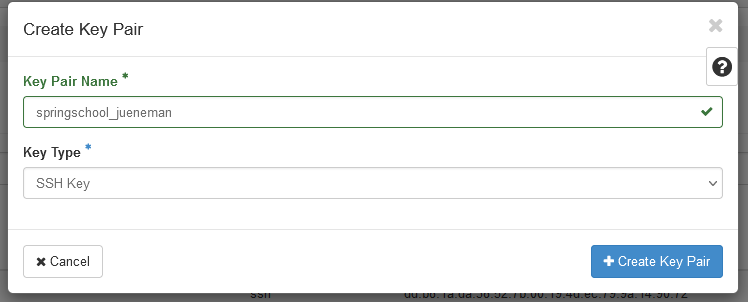
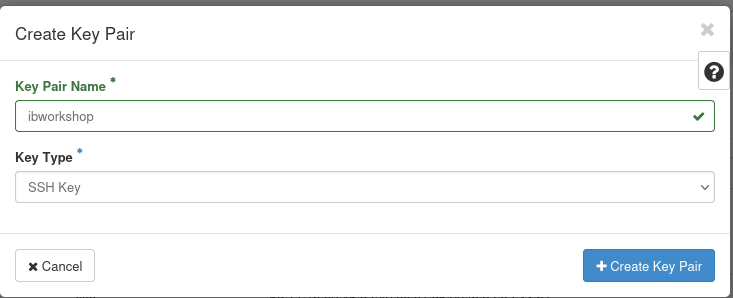
Merge pull request #35 from abshah/main
DM_in_the_deNBI_cloud: correctness fixes and screenshot refresh

Pull request: DM_in_the_deNBI_cloud: correctness fixes and screenshot refresh
- Fix broken numbered lists across sections 1.2, 1.6, 2.1, 3.2-3.4 by indenting interrupting images into their list items; renumber 3.2 starting at 1.
- Correct content errors: /mount/volume -> /mnt/volume typo, broken rsync remote-to-remote example, IP/port mismatch in 3.4, undefined sra/aws mc aliases now annotated as pre-configured.
- Update tool versions in 1.6 step 4 to match new screenshot (parallel 20260122, sra-tools 3.4.1, mash 2.3); add fasterq-dump -h to the 2.1 verification step.
- Replace conda.png, keypair2.png; add new additional_users.png with emails and last names redacted; clarify that ib2025openstack1 and ib2025workshop1 are distinct projects.
- Expand 4.3 bucket creation into explicit Horizon steps; replace expired October-2025 invitation note; clarify simplevm.denbi.de vs cloud.denbi.de portal relationship; replace placeholder key_points.
- Add .claude/ and .cursor/ to .gitignore.

**Pull Request Checklist**

Before submitting your pull request, please make sure you have done the following:

* [ ] Read our [Contributing Guidelines](CONTRIBUTING.md) (if applicable).

* [ ] Ensured your code adheres to our project's coding style (if applicable).

* [ ] Updated documentation for any new or changed features.


**Changes Proposed**

Please provide a concise description of the changes in this pull request.

**License Agreement**
[…]

Changed region(s): [[0.0, 0.0, 1.0, 1.0]]

diff --git a/_tutorials/DM_in_the_deNBI_cloud/main/tutorial.md b/_tutorials/DM_in_the_deNBI_cloud/main/tutorial.md
@@ -14,15 +14,19 @@ objectives:
   - Be able to use object storage on the de.NBI Cloud.
   - Be able to use advanced object storage operations and SSH-based transfers (parallel transfers, mirroring, resume interrupted transfers).
 key_points:
-  - Use the de.NBI Cloud for superior performance for all your research projects.
-  - Key points will appear at the end of the tutorial.
+  - SimpleVM provides a guided interface for launching VMs with pre-installed tool stacks via Conda; OpenStack Horizon exposes the underlying primitives for more control.
+  - Object storage (Swift/S3) is project-scoped, so containers are visible to all project members; use unique, DNS-compatible names.
+  - The MinIO client (`mc`) covers most day-to-day object-storage tasks, including bulk transfers, mirroring, and anonymous-access policies.
+  - For SSH-based transfers, prefer `rsync` for incremental sync and `parallel` with `scp` to saturate bandwidth on many small files.
 version: main
 life_cycle: alpha
 contributions:
   authorship:
     - Abhijeet Shah
-    - Sebastian Juenemann
-  editing: AS & SJ
+    - Sebastian Jünemann
+  editing:
+    - Abhijeet Shah
+    - Sebastian Jünemann
   funding: deKCD/BMBF
 ---
 
@@ -57,20 +61,22 @@ able to log in to the de.NBI Cloud Portal:
     de.NBI Cloud wiki regarding SSH keys:
     <https://cloud.denbi.de/wiki/portal/user_information/#ssh-key>
 
-![Key]({{ "/tutorials/DM_in_the_deNBI_cloud/main/tutorial/figures/key.png" | relative_url }}){: .responsive-img }
+    ![Key]({{ "/tutorials/DM_in_the_deNBI_cloud/main/tutorial/figures/key.png" | relative_url }}){: .responsive-img }
 
-3. (optional) If you already have a personal SSH key-pair, you can also
-   upload your *public* key here instead of generating one.
+3.  (optional) If you already have a personal SSH key-pair, you can
+    also upload your *public* key here instead of generating one.
 
 ## 1.3 Join the *ib2025workshop1* Project
 
 If you have not done yet, please click on the following link to request
 access to the project:
 
-[ib2025workshop
-invitation](https://simplevm.denbi.de/portal/webapp/#/workshops/invitation/faecbc35ec5648e890f6510f583e2b38)
+[ib2025workshop invitation](https://simplevm.denbi.de/portal/webapp/#/workshops/invitation/faecbc35ec5648e890f6510f583e2b38)
 
-The above invitation link will not work after October 2025.
+**Note:** Workshop invitation links are valid only for the duration of
+the running cohort and expire shortly after the workshop ends. If the
+link above is no longer active, ask the workshop organizers
+(Sebastian Jünemann, Abhijeet Shah) for the current invitation URL.
 
 If you have been invited to join a SimpleVM project on the de.NBI Cloud via a link, you may now click on the link and follow the instructions to join the project.
 
@@ -81,7 +87,9 @@ in your VM through conda environments:
 
 -   **mash**: A fast genome and metagenome distance estimation tool
 -   **parallel**: GNU parallel for running jobs in parallel
--   **fasterq-dump**: Part of the SRA Toolkit for converting SRA data
+-   **fasterq-dump**: A tool for converting SRA data, provided by the
+    **sra-tools** conda package (the package you select in Section 1.6
+    is `sra-tools`; the binary on `$PATH` is `fasterq-dump`)
 
 **Note**: These tools will be available after activating the conda environment
 with `conda activate denbi` (covered later in this workshop).
@@ -92,8 +100,11 @@ features but is not required for this workshop.
 
 ## 1.5 Select your project
 
-You start this tutorial from your profile page
-(<https://simplevm.denbi.de>).
+You start this tutorial from your SimpleVM profile page at
+<https://simplevm.denbi.de>. This is the dedicated SimpleVM portal; it
+is reachable from the main de.NBI Cloud portal
+(<https://cloud.denbi.de/portal/>) under the **SimpleVM** menu and uses
+the same login.
 
 1.  Click on the `New Instance` tab.
 
@@ -118,25 +129,30 @@ You start this tutorial from your profile page
 
 3.  In the image section, please click on the *Research Environments*
     tab and select the **Guacamole** image based on **Ubuntu 24.04**.
+
     ![Research Environment Selection]({{ "/tutorials/DM_in_the_deNBI_cloud/main/tutorial/figures/resenv.png" | relative_url }}){: .responsive-img }
 
 4.  Select the Conda tab and choose the following tools with their
     version numbers given below for installation via Conda:
 
-    -   parallel (20220922)
-    -   sra-tools (3.1.1)
-    -   mash (2.2)
-        ![Conda Tool Selection]({{ "/tutorials/DM_in_the_deNBI_cloud/main/tutorial/figures/conda.png" | relative_url }}){: .responsive-img }
+    -   parallel (20260122)
+    -   sra-tools (3.4.1)
+    -   mash (2.3)
+
+    ![Conda Tool Selection]({{ "/tutorials/DM_in_the_deNBI_cloud/main/tutorial/figures/conda.png" | relative_url }}){: .responsive-img }
 
     You will learn in the next sections how to apply these tools.
 
 5.  Grant access to the workshop organizers (**Sebastian Jünemann** and **Abhijeet Shah**), or your collaborators. This
     way these members get ssh access to your VM and can help you in case
     something does not work as expected.
+
     ![Additional Users]({{ "/tutorials/DM_in_the_deNBI_cloud/main/tutorial/figures/additional_users.png" | relative_url }}){: .responsive-img }
 
 6.  Optional: Modify the URL path for Guacamole. You will access this VM
-    via this URL. ![Research Environment URL]({{ "/tutorials/DM_in_the_deNBI_cloud/main/tutorial/figures/resenv_url.png" | relative_url }}){: .responsive-img }
+    via this URL.
+
+    ![Research Environment URL]({{ "/tutorials/DM_in_the_deNBI_cloud/main/tutorial/figures/resenv_url.png" | relative_url }}){: .responsive-img }
 
 7.  Confirm the checkboxes and click on Start.
 
@@ -162,14 +178,18 @@ Log in to the VM and verify that SimpleVM provisioned the VM correctly.
     have been automatically redirected to the **Instance Overview**
     page. Now click on the dropdown of your machine. Click on the
     Guacamole URL which opens a new browser tab.
+
     ![VM State]({{ "/tutorials/DM_in_the_deNBI_cloud/main/tutorial/figures/vm_state.png" | relative_url }}){: .responsive-img }
 
 2.  Log into the virtual desktop environment using the credentials:
-    `denbi` `denbi` ![VM Login]({{ "/tutorials/DM_in_the_deNBI_cloud/main/tutorial/figures/vm_login.png" | relative_url }}){: .responsive-img }
+    `denbi` `denbi`.
+
+    ![VM Login]({{ "/tutorials/DM_in_the_deNBI_cloud/main/tutorial/figures/vm_login.png" | relative_url }}){: .responsive-img }
 
     And choose the correct keyboard layout for you.
 
 3.  Right click on background and select `Open Terminal Here`.
+
     ![Open Terminal]({{ "/tutorials/DM_in_the_deNBI_cloud/main/tutorial/figures/open_terminal.png" | relative_url }}){: .responsive-img }
 
 4.  Inspect the VM before starting to work with it. Let's check whether
@@ -191,7 +211,7 @@ Log in to the VM and verify that SimpleVM provisioned the VM correctly.
     free -h
     ```
 
-    You can also check what kind of processes are running on your VM by
+    You can also check what kind of processes are running on your VM bynproc
     executing `top` or `htop`.
 
     ``` bash
@@ -211,6 +231,7 @@ Log in to the VM and verify that SimpleVM provisioned the VM correctly.
 
     -   `mash -h`
     -   `parallel -h`
+    -   `fasterq-dump -h`
 
     If there is an error reported, then something went wrong, and we
     have to either repeat the conda installation manually or install it
@@ -243,7 +264,7 @@ Log in to the VM and verify that SimpleVM provisioned the VM correctly.
     Install the command-line client for OpenStack
 
     ``` bash
-    sudo apt install python3-openstackclient
+    sudo apt install -y python3-openstackclient
     ```
 
 # Section 3: Using Horizon OpenStack Interface
@@ -262,24 +283,24 @@ the openstack interface.
 
 ## 3.2 Create a new Key Pair
 
-2.  Click on the `Key Pairs` entry under the `Compute` menu and select
-    `Create Key Pair`
+1.  Click on the `Key Pairs` entry under the `Compute` menu and select
+    `Create Key Pair`.
 
-![Key Pair Creation Step 1]({{ "/tutorials/DM_in_the_deNBI_cloud/main/tutorial/figures/keypair1.png" | relative_url }}){: .responsive-img }
+    ![Key Pair Creation Step 1]({{ "/tutorials/DM_in_the_deNBI_cloud/main/tutorial/figures/keypair1.png" | relative_url }}){: .responsive-img }
 
-3.  Enter any name and select `SSH Key` as the Key Type.
+2.  Enter any name and select `SSH Key` as the Key Type.
 
-![Key Pair Creation Step 2]({{ "/tutorials/DM_in_the_deNBI_cloud/main/tutorial/figures/keypair2.png" | relative_url }}){: .responsive-img }
+    ![Key Pair Creation Step 2]({{ "/tutorials/DM_in_the_deNBI_cloud/main/tutorial/figures/keypair2.png" | relative_url }}){: .responsive-img }
 
-4.  The private key will be downloaded automatically to your SimpleVM
+3.  The private key will be downloaded automatically to your SimpleVM
     instance. This instance can be accessed only by you, however,
     private keys should always have restricted access, which is
     currently not the case. We will change this now:
 
-``` bash
-mv ~/Downloads/*.pem ~/.ssh
-chmod 600 ~/.ssh/*.pem
-```
+    ``` bash
+    mv ~/Downloads/*.pem ~/.ssh
+    chmod 600 ~/.ssh/*.pem
+    ```
 
 ## 3.3 Start a new instance
 
@@ -290,31 +311,31 @@ openstack horizon.
 1.  Under the `Compute` menu, select the `Instances` entry and click on
     `Launch Instance`.
 
-![New Instance Step 1]({{ "/tutorials/DM_in_the_deNBI_cloud/main/tutorial/figures/newinstance1.png" | relative_url }}){: .responsive-img }
+    ![New Instance Step 1]({{ "/tutorials/DM_in_the_deNBI_cloud/main/tutorial/figures/newinstance1.png" | relative_url }}){: .responsive-img }
 
 2.  In the first section, you just need to provide an instance name.
     Please choose your name so that we can identify your VM.
 
-![New Instance Step 2]({{ "/tutorials/DM_in_the_deNBI_cloud/main/tutorial/figures/newinstance2.png" | relative_url }}){: .responsive-img }
+    ![New Instance Step 2]({{ "/tutorials/DM_in_the_deNBI_cloud/main/tutorial/figures/newinstance2.png" | relative_url }}){: .responsive-img }
 
 3.  Then, we need to select a bootable image. In the drop down menu
     `Select Boot Source` select the entry `Instance Snapshot` upon which
     the image `RDM Meets Cloud Workshop` will appear in the list below.
     Click the right up-arrow on that image so that it will be selected.
 
-![New Instance Step 3]({{ "/tutorials/DM_in_the_deNBI_cloud/main/tutorial/figures/newinstance3.png" | relative_url }}){: .responsive-img }
+    ![New Instance Step 3]({{ "/tutorials/DM_in_the_deNBI_cloud/main/tutorial/figures/newinstance3.png" | relative_url }}){: .responsive-img }
 
 4.  Next the flavor, i.e. physical virtualization, needs to be chosen.
     Here, select the `de.NBI default` flavor.
 
-![New Instance Step 4]({{ "/tutorials/DM_in_the_deNBI_cloud/main/tutorial/figures/newinstance4.png" | relative_url }}){: .responsive-img }
+    ![New Instance Step 4]({{ "/tutorials/DM_in_the_deNBI_cloud/main/tutorial/figures/newinstance4.png" | relative_url }}){: .responsive-img }
 
 5.  The last option that needs to be selected is the key pair that will
     be used for the ssh connection. Select the `Key Pair` menu entry and
     choose the key pair that you just created in the previous section
     3.2.
 
-![New Instance Step 5]({{ "/tutorials/DM_in_the_deNBI_cloud/main/tutorial/figures/newinstance5.png" | relative_url }}){: .responsive-img }
+    ![New Instance Step 5]({{ "/tutorials/DM_in_the_deNBI_cloud/main/tutorial/figures/newinstance5.png" | relative_url }}){: .responsive-img }
 
 6.  You can now `Launch the Instance`.
 
@@ -323,26 +344,26 @@ openstack horizon.
 1.  Locate your running instance in the List of instances and note
     (write down) the last part of the IP address.
 
-![IP Address]({{ "/tutorials/DM_in_the_deNBI_cloud/main/tutorial/figures/ipaddress.png" | relative_url }}){: .responsive-img }
+    ![IP Address]({{ "/tutorials/DM_in_the_deNBI_cloud/main/tutorial/figures/ipaddress.png" | relative_url }}){: .responsive-img }
 
-Add 30000 to this number (in this example this would be the number
-30051). This will be the port that you will be using for the ssh
-connection.
+    Add 30000 to this number (in this example this would be the number
+    30199). This will be the port that you will be using for the ssh
+    connection.
 
 2.  In the Guacamole environment, open a terminal (or use any running
     terminal session) and type the following command:
 
-``` bash
-ssh -i ~/.ssh/*.pem ubuntu@129.70.51.199 -p YOUR_PORT
-```
+    ``` bash
+    ssh -i ~/.ssh/*.pem ubuntu@129.70.51.199 -p YOUR_PORT
+    ```
 
-**Note:** You need to replace YOUR_PORT with the actual port number you
-got in the step above!
+    **Note:** You need to replace YOUR_PORT with the actual port number you
+    got in the step above!
 
-If everything went without any issue, you should see the following
-prompt:
+    If everything went without any issue, you should see the following
+    prompt:
 
-![Instance Login]({{ "/tutorials/DM_in_the_deNBI_cloud/main/tutorial/figures/instance_login.png" | relative_url }}){: .responsive-img }
+    ![Instance Login]({{ "/tutorials/DM_in_the_deNBI_cloud/main/tutorial/figures/instance_login.png" | relative_url }}){: .responsive-img }
 
 Here, we will create a new folder called `data_remote`:
 
@@ -392,6 +413,12 @@ source ~/.config/openstack/app-cred*.sh
 If you have `OpenstackClient` installed and `openstack subnet list` runs
 without error, you are ready to proceed.
 
+**Note:** The OpenStack-side project (`ib2025openstack1`) is a separate
+project from the SimpleVM workshop project (`ib2025workshop1`)
+introduced in Section 1.3. They share members but exist independently
+on the OpenStack and SimpleVM sides; from here on, we work against the
+OpenStack project.
+
 ``` bash
 openstack project list
 openstack project show ib2025openstack1
@@ -430,20 +457,38 @@ SimpleVM instance, type:
 cd /mnt/volume
 ```
 
-We will download some more data to play around with:
+We will download some more data to play around with. The `sra` and
+`aws` MinIO aliases used in the commands below come pre-configured on
+the workshop VM image and point at public read-only S3 mirrors of the
+ENA/SRA archives. You can confirm they are available with `mc alias list`.
 
 ``` bash
 mc cp sra/ftp.era.ebi.ac.uk/vol1/fastq/SRR398/008/SRR3984908/SRR3984908_1.fastq.gz .
 mc cp sra/ftp.era.ebi.ac.uk/vol1/fastq/SRR398/008/SRR3984908/SRR3984908_2.fastq.gz .
 ```
 
-Next, we are going to create a new object storage container, a so-called
-bucket. For this, we will use the Horizon interface for the first time.
-Navigate to the **Container** entry under the **Object Store** menu
-entry. Note: All containers here are visible to all project members, as
-those containers in openstack are bound to the project.
+Next, we are going to create a new object storage container — a
+so-called bucket. For this, we will use the Horizon interface for the
+first time:
 
-This container is empty, but we can show it nevertheless on the command
+1.  In Horizon, expand the **Object Store** menu in the left sidebar
+    and click **Containers**.
+2.  Click **+ Container**.
+3.  Enter a container name. Pick something unique to you (e.g. include
+    your initials or username), since all containers in this project
+    are visible to all project members. Container names must be
+    DNS-compatible: lowercase letters, digits, and hyphens only.
+4.  Leave the access policy at its default (private) and click
+    **Submit**.
+
+The new container will appear in the container list. From now on, refer
+to it as `YOUR_CONTAINER_NAME` in the commands below.
+
+**Note:** All containers in this project are visible to every project
+member because OpenStack object storage is scoped to the project, not
+the individual user.
+
+The container is currently empty, but we can list it from the command
 line using the MinIO client:
 
 ``` bash
@@ -477,7 +522,6 @@ Here are some additional useful object storage operations:
 1.  **Copy data between buckets:**
 
     ``` bash
-    touch YOUR_NAME.txt
     wget https://loremipsum.de/downloads/original.txt -O YOUR_NAME.txt
     mc cp YOUR_NAME.txt ibworkshop/YOUR_CONTAINER_NAME/
     mc cp ibworkshop/YOUR_CONTAINER_NAME/YOUR_NAME.txt ibworkshop/example/
@@ -558,7 +602,7 @@ error handling.
 
 ``` bash
 # Upload multiple file types with wildcards
-mc cp /mount/volume/*.{fastq,fna,fa} ibworkshop/YOUR_CONTAINER_NAME/raw_data/
+mc cp /mnt/volume/*.{fastq,fna,fa} ibworkshop/YOUR_CONTAINER_NAME/raw_data/
 
 # Download files matching specific patterns
 mc find ibworkshop/YOUR_CONTAINER_NAME --name "*.fastq.gz" --exec "mc cp {} ~/downloads/"
@@ -588,7 +632,7 @@ efficient for incremental backups and dataset updates.
 
 ``` bash
 # Sync directories between instances
-rsync -avz -e "ssh -p YOUR_PORT" ubuntu@YOUR_VM_IP:/mnt/volume/data/  ubuntu@YOUR_OTHER_VM_IP:/PATH/TO/data
+rsync -avz -e "ssh -p YOUR_PORT" /PATH/TO/local_data  ubuntu@YOUR_VM_IP:/PATH/TO/data
 
 # Transfer with compression and progress
 rsync -avzP -e "ssh -p YOUR_PORT" ~/large_dataset/ ubuntu@YOUR_VM_IP:/mnt/volume/